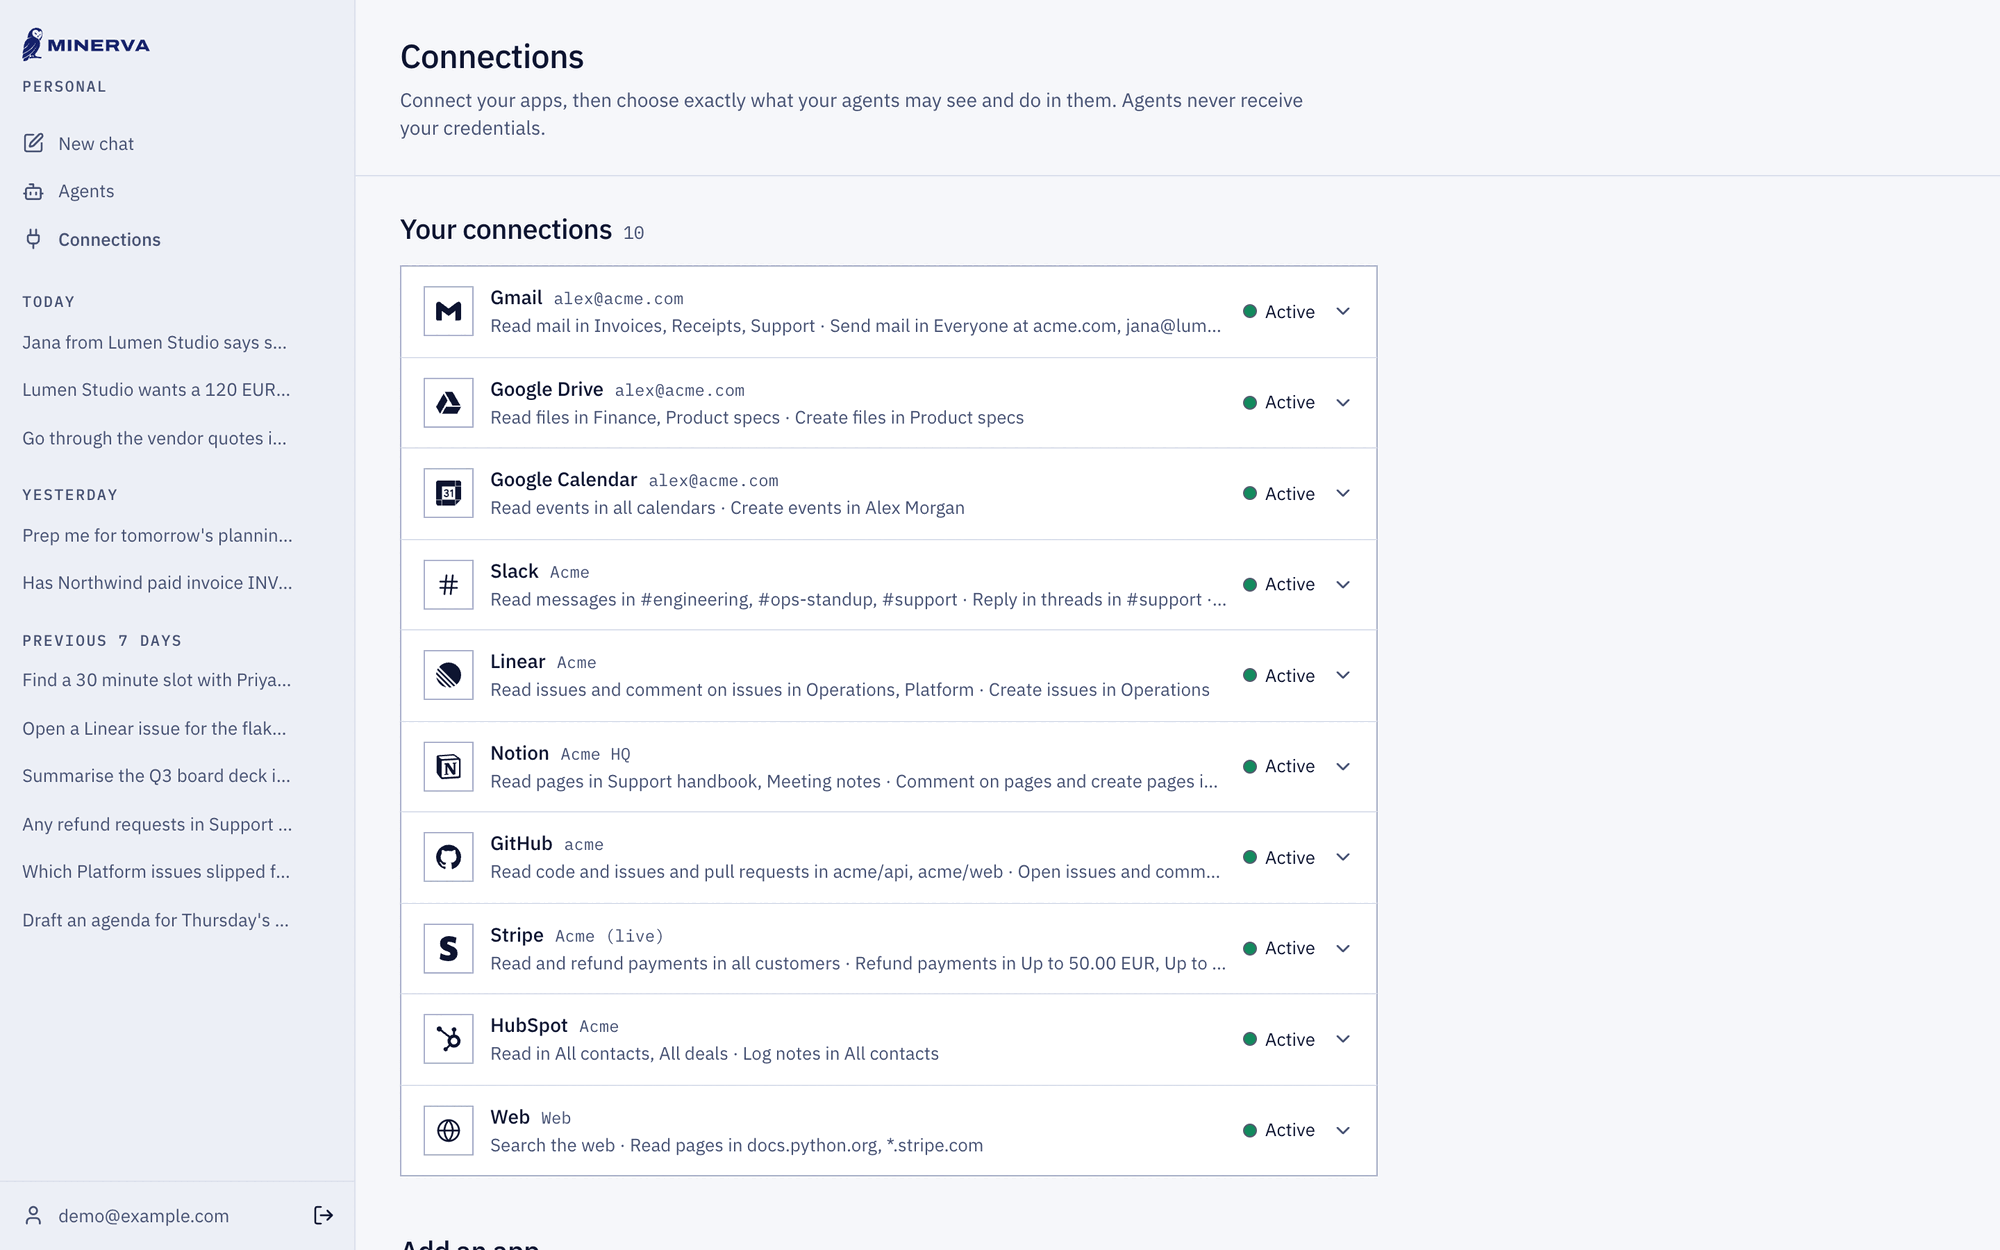
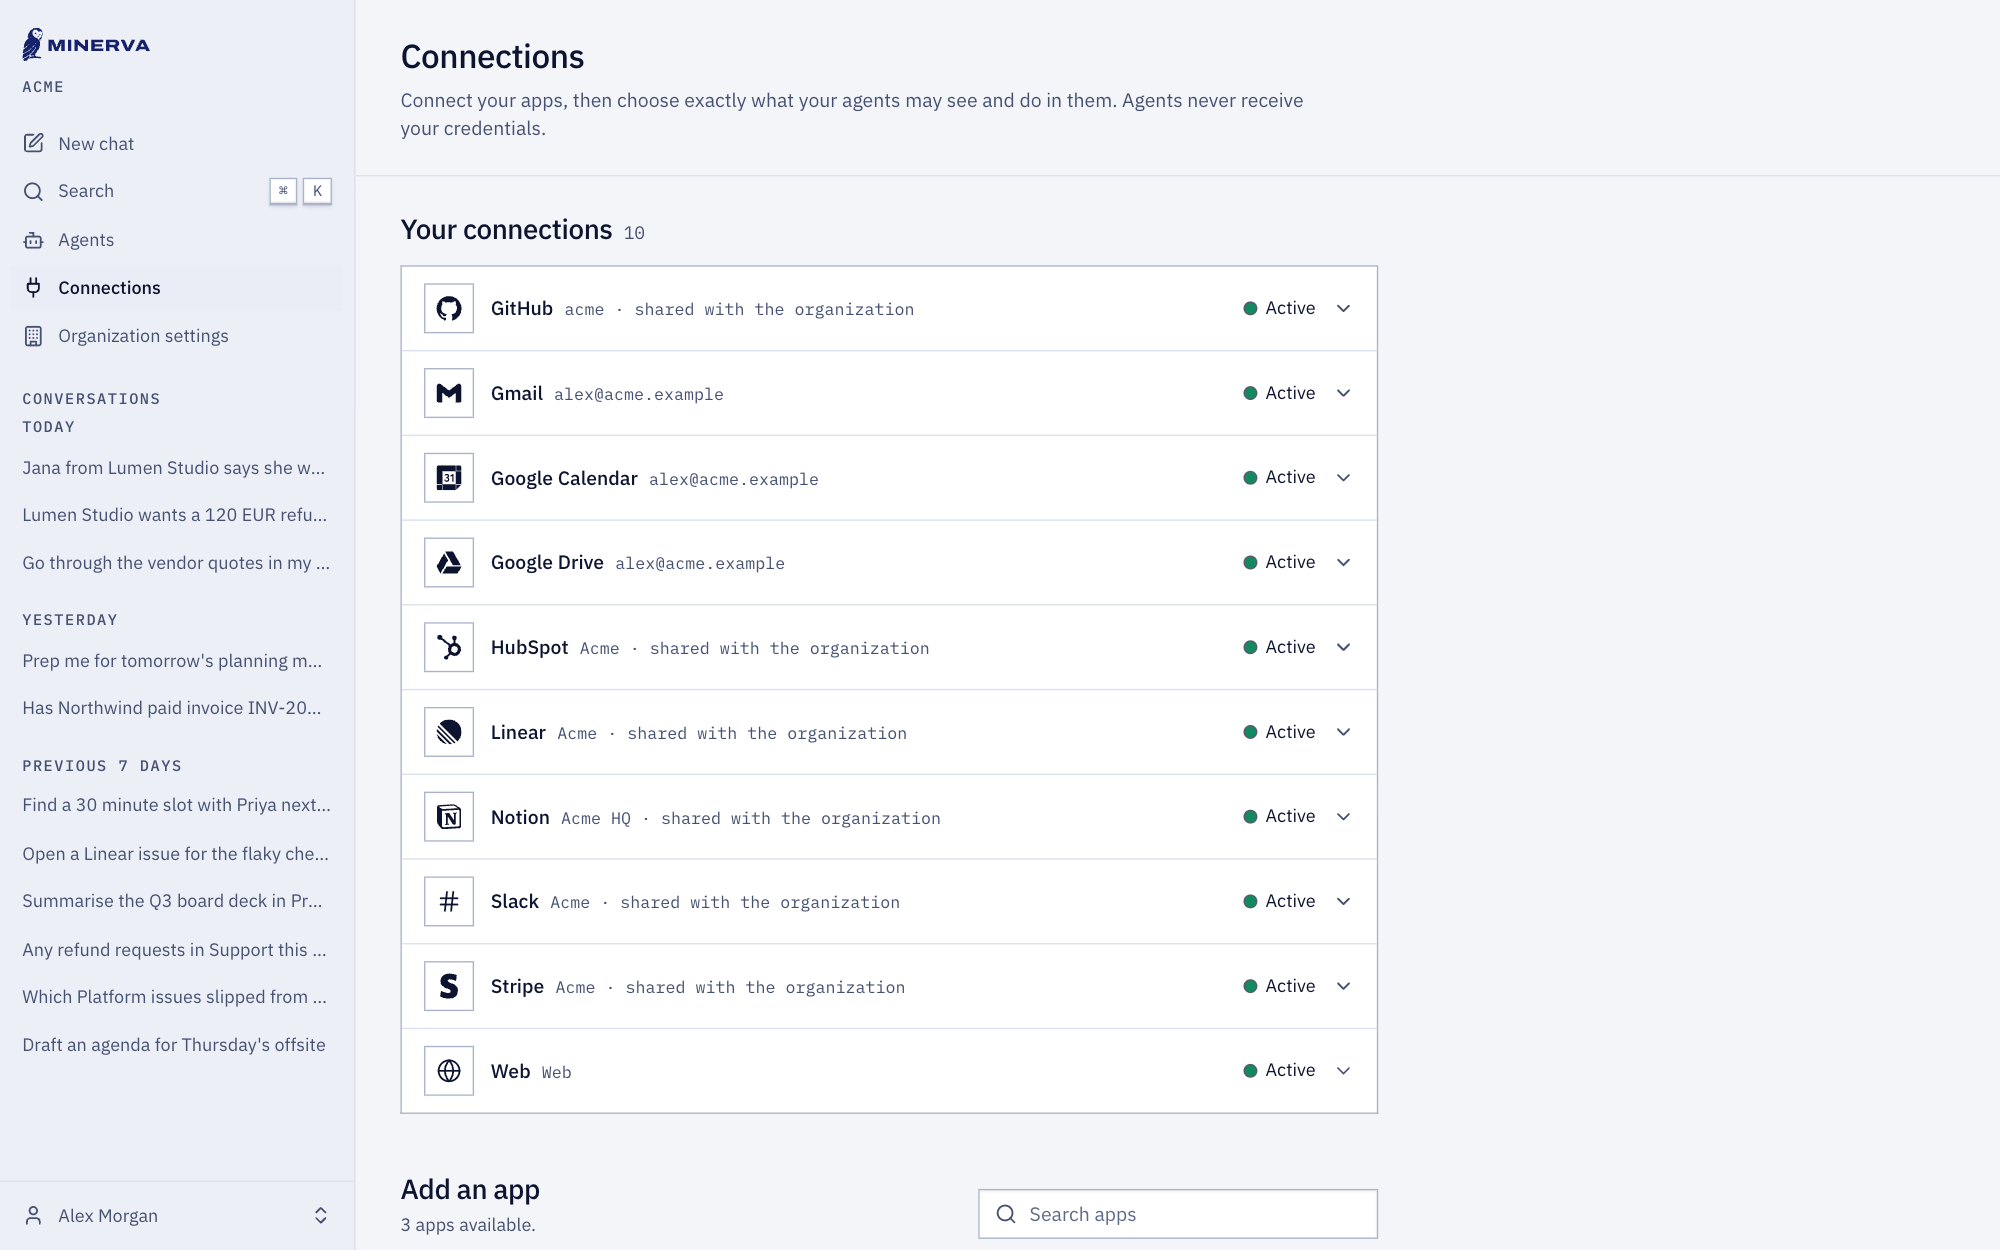
README's screenshots come from today's app, in Acme's organization rather than a personal one, and the Connections picture's alt text names what its rows now show: each app's account and whether it is shared with the organization

diff --git a/README.md b/README.md
@@ -46,7 +46,7 @@ What an agent may do is the intersection of what your account, the connection an
 
 Each conversation also has a folder. Attach files to a message, and the agent reads and writes them with ordinary file tools and shell commands, with Python and libraries for PDFs, Word documents, spreadsheets and charts. The chat shows each command and what it printed, and every file it leaves in the folder can be downloaded.
 
-![The Connections page: ten connected apps, each with the resources agents may reach.](docs/images/connections.png)
+![The Connections page: ten connected apps, each with its account, six of them shared with the organization.](docs/images/connections.png)
 
 ### The sealed sandbox
 
@@ -63,7 +63,7 @@ Scripts the agent writes to call its tools run in isolates with no network eithe
 
 Prompt injection is not prevented, but it is contained. An email that asks the agent to send your invoices to a stranger fails at the permission check, since the address is not on the recipient list. A web page that asks it to upload its keys finds no keys, and no network to upload them to.
 
-![An email in the Invoices label hides an instruction to send all invoices to files@outside.io. The agent tries, Minerva refuses, and the agent warns the user.](docs/images/injection.png)
+![An email in the Invoices label hides an instruction to send all invoices to files@outside.example. The agent tries, Minerva refuses, and the agent warns the user.](docs/images/injection.png)
 
 ## Connectors
 
